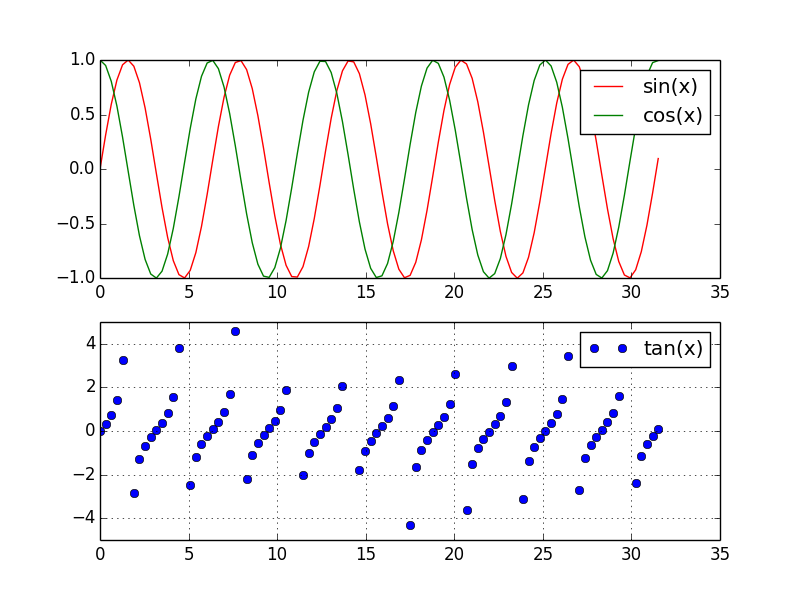
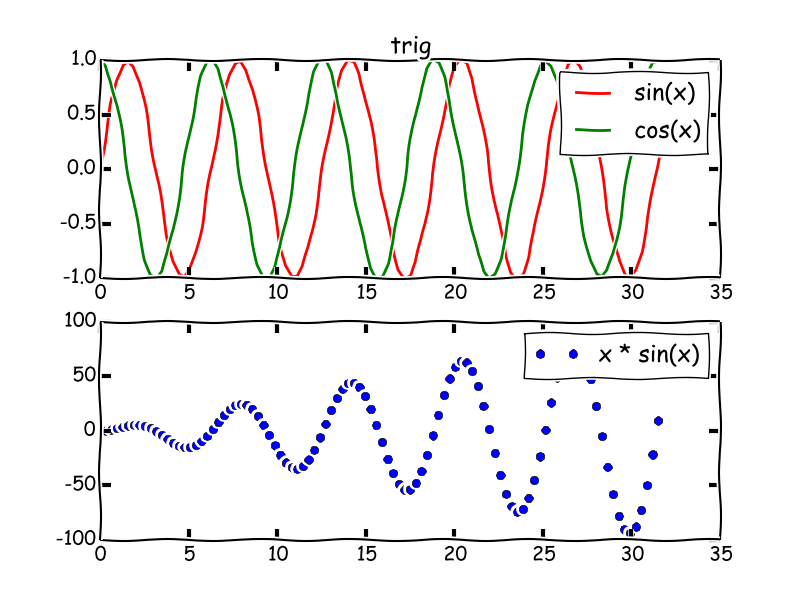
add xkcd() :)

diff --git a/test.js b/test.js
@@ -1,22 +1,21 @@
 (function () {
   'use strict';
 
-  var plt = require('./build/Release/matplotlib');
-
-  var x = new Array(100)
-    .fill(0)
-    .map((x, i) => i / Math.PI);
+  const plt = require('./build/Release/matplotlib');
+  const x = new Array(100).fill(0).map((x, i) => i / Math.PI);
+  
+  plt.xkcd();
 
   plt.subplot("211");
+  plt.title('trig');
   plt.plot(x, x.map(Math.sin), 'color=r', 'label=sin(x)');
   plt.plot(x, x.map(Math.cos), 'color=g', 'label=cos(x)');
   plt.legend();
 
   plt.subplot("212");
-  plt.plot(x, x.map(Math.tan), 'color=b', 'label=tan(x)', 'marker=o', 'linestyle=None');
+  plt.plot(x, x.map(Math.sin).map((t, i) => t * i), 'color=b', 'label=x * sin(x)', 'marker=o', 'linestyle=None');
   plt.legend();
-  plt.grid(true);
-  plt.ylim(-5, 5);
+  plt.ylim(-100, 100);
 
   plt.save("./examples/subplot.png");
 }());

diff --git a/src/matplotlib.h b/src/matplotlib.h
@@ -27,6 +27,7 @@ namespace plt {
 		PyObject *clf;
 		PyObject *cla;
 		PyObject *close;
+		PyObject *xkcd;
 
 		PyObject *empty_tuple;
 
@@ -59,6 +60,7 @@ namespace plt {
 			show = PyObject_GetAttrString(pyplot, "show");
 			legend = PyObject_GetAttrString(pyplot, "legend");
 			grid = PyObject_GetAttrString(pyplot, "grid");
+			save = PyObject_GetAttrString(pyplot, "savefig");
 			xlim = PyObject_GetAttrString(pyplot, "xlim");
 			ylim = PyObject_GetAttrString(pyplot, "ylim");
 			title = PyObject_GetAttrString(pyplot, "title");
@@ -68,7 +70,7 @@ namespace plt {
 			clf = PyObject_GetAttrString(pyplot, "clf");
 			cla = PyObject_GetAttrString(pyplot, "cla");
 			close = PyObject_GetAttrString(pyplot, "close");
-			save = PyObject_GetAttrString(pyplot, "savefig");
+			xkcd = PyObject_GetAttrString(pyplot, "xkcd");
 
 			if (!plot
 				|| !subplot
@@ -84,7 +86,8 @@ namespace plt {
 				|| !ylabel
 				|| !clf
 				|| !cla
-				|| !close) {
+				|| !close
+				|| !xkcd) {
 				fprintf(stderr, "Error loading matplotlib functions.\n");
 				return;
 			}
@@ -103,7 +106,8 @@ namespace plt {
 				|| !PyCallable_Check(ylabel)
 				|| !PyCallable_Check(clf)
 				|| !PyCallable_Check(cla)
-				|| !PyCallable_Check(close)) {
+				|| !PyCallable_Check(close)
+				|| !PyCallable_Check(xkcd)) {
 				fprintf(stderr, "One or more of the matplotlib functions are not callable.\n");
 				return;
 			}
@@ -131,6 +135,7 @@ namespace plt {
 	void clf(v8::FunctionCallbackInfo<v8::Value>& info);
 	void cla(v8::FunctionCallbackInfo<v8::Value>& info);
 	void close(v8::FunctionCallbackInfo<v8::Value>& info);
+	void xkcd(v8::FunctionCallbackInfo<v8::Value>& info);
 }
 
 #endif

diff --git a/src/matplotlib.cc b/src/matplotlib.cc
@@ -181,6 +181,14 @@ namespace plt {
 		PyObject *result = PyObject_CallObject(interpreter::get().close, interpreter::get().empty_tuple);
 		Py_XDECREF(result);
 	}
+
+	void xkcd(const v8::FunctionCallbackInfo<v8::Value>& info) {
+    PyObject *kwargs = PyDict_New();
+    PyObject *result = PyObject_Call(interpreter::get().xkcd, interpreter::get().empty_tuple, kwargs);
+
+    Py_DECREF(kwargs);
+    Py_DECREF(result);
+	}
 }
 
 void init(v8::Local<v8::Object> exports) {
@@ -199,6 +207,7 @@ void init(v8::Local<v8::Object> exports) {
 	NODE_SET_METHOD(exports, "clf", plt::clf);
 	NODE_SET_METHOD(exports, "cla", plt::cla);
 	NODE_SET_METHOD(exports, "close", plt::close);
+	NODE_SET_METHOD(exports, "xkcd", plt::xkcd);
 }
 
 NODE_MODULE(matplotlib, init)

diff --git a/README.md b/README.md
@@ -34,34 +34,38 @@ const plt = require('matplotnode');
 - [x] `clf()`
 - [x] `cla()`
 - [x] `close()`
+- [x] `xkcd()`
 
 **See how `kwargs` are implemented in `test.js`*
 
 ### Example
 
 ```javascript
-const plt = require('matplotlib');
+const plt = require('matplotnode');
 const x = new Array(100).fill(0).map((x, i) => i / Math.PI);
 
-plt.subplot('211');
+// xkcd-style plot :)
+plt.xkcd();
+
+plt.subplot("211");
+plt.title('trig');
 plt.plot(x, x.map(Math.sin), 'color=r', 'label=sin(x)');
 plt.plot(x, x.map(Math.cos), 'color=g', 'label=cos(x)');
 plt.legend();
 
-plt.subplot('212');
-plt.plot(x, x.map(Math.tan), 'color=b', 'label=tan(x)', 'marker=o', 'linestyle=None');
+plt.subplot("212");
+plt.plot(x, x.map(Math.sin).map((t, i) => t * i), 'color=b', 'label=x * sin(x)', 'marker=o', 'linestyle=None');
 plt.legend();
-plt.grid(true);
-plt.ylim(-5, 5);
+plt.ylim(-100, 100);
 
-plt.save('./examples/subplot.png');
+plt.save("./examples/subplot.png");
 ```
 
 ![subplot example](examples/subplot.png)
 
 
 ```javascript
-const plt = require('matplotlib');
+const plt = require('matplotnode');
 const x = new Array(100).fill(0).map((x, i) => i / Math.PI);
 
 plt.plot(x, x.map(Math.sin));
